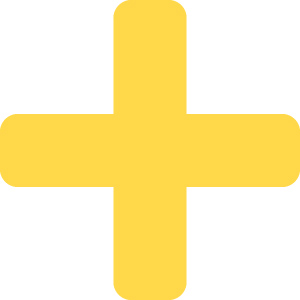
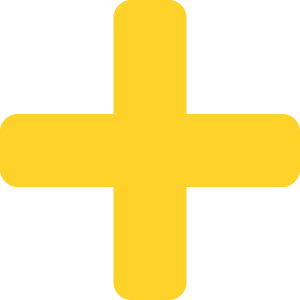
updated shapes

diff --git a/imports/startup/server/grouping-helper.js b/imports/startup/server/grouping-helper.js
@@ -13,7 +13,7 @@ function shuffle(a) {
   }
 
   return a;
-};
+}
 
 // TODO: get these from instructor
 const MAX_TEAM_SIZE = 3;
@@ -21,9 +21,8 @@ const MAX_NUM_TEAMS = 50;
 
 // set up the colors that the teams will use
 function buildColoredShapes(colored_shapes) {
-
-  const shapes = shuffle(['circle', 'cross', 'moon', 'square', 'star', 'sun', 'heart', 'car', 'triangle']);
-  const shapeColors = shuffle(['blue', 'green', 'orange', 'red']);
+  const shapes = shuffle(['circle', 'plus', 'moon', 'square', 'star', 'heart', 'triangle']);
+  const shapeColors = shuffle(['blue', 'purple', 'green', 'yellow', 'red']);
 
   for (let i = 0; i < shapes.length; i++) {
     for (let j = 0; j < shapeColors.length; j++) {
@@ -32,12 +31,10 @@ function buildColoredShapes(colored_shapes) {
   }
 
   shuffle(colored_shapes);
-
 }
 
 // builds teams for the first round of team formation
 export function buildInitialTeams(act_id, participants, questions) {
-
   // get the random colored shapes
   colored_shapes = [];
   buildColoredShapes(colored_shapes);
@@ -82,11 +79,11 @@ export function buildInitialTeams(act_id, participants, questions) {
           { pid: newTeam[k] },
           {
             $push: {
-              teamHistory: { 
-                team: team_id, 
-                teamNumber: teams.length, 
+              teamHistory: {
+                team: team_id,
+                teamNumber: teams.length,
                 teamPosition: k,
-                activity_id: act_id 
+                activity_id: act_id
               }
             }
           }
@@ -115,8 +112,8 @@ export function buildInitialTeams(act_id, participants, questions) {
     // update the team in database
     Teams.update(team_id, {
       $set: {
-        teamCreated: new Date().getTime(),
-      }, 
+        teamCreated: new Date().getTime()
+      },
       $push: {
         members: { pid: newTeam[0], confirmed: false }
       }
@@ -126,11 +123,11 @@ export function buildInitialTeams(act_id, participants, questions) {
       { pid: newTeam[0] },
       {
         $push: {
-          teamHistory: { 
-            team: team_id, 
-            teamNumber: teams.length-1, // previous team made had this number
+          teamHistory: {
+            team: team_id,
+            teamNumber: teams.length - 1, // previous team made had this number
             teamPosition: MAX_TEAM_SIZE,
-            activity_id: act_id 
+            activity_id: act_id
           }
         }
       }
@@ -141,14 +138,16 @@ export function buildInitialTeams(act_id, participants, questions) {
 
   // only 2 participants left, create 2 teams of MAX_TEAM_SIZE + 1
   else if (
-    newTeam.length === MAX_TEAM_SIZE - 1 && teams.length > 1 &&
-    oldTeam.length < MAX_TEAM_SIZE + 1 && olderTeam.length < MAX_TEAM_SIZE + 1
+    newTeam.length === MAX_TEAM_SIZE - 1 &&
+    teams.length > 1 &&
+    oldTeam.length < MAX_TEAM_SIZE + 1 &&
+    olderTeam.length < MAX_TEAM_SIZE + 1
   ) {
     // add the first user to an older team
     Teams.update(team_id, {
       $set: {
-        teamCreated: new Date().getTime(),
-      }, 
+        teamCreated: new Date().getTime()
+      },
       $push: {
         members: { pid: newTeam[0], confirmed: false }
       }
@@ -158,12 +157,13 @@ export function buildInitialTeams(act_id, participants, questions) {
       { pid: newTeam[0] },
       {
         $push: {
-          teamHistory: { 
-            team: team_id, 
-            teamNumber: teams.length-1, 
+          teamHistory: {
+            team: team_id,
+            teamNumber: teams.length - 1,
             teamPosition: MAX_TEAM_SIZE,
-            activity_id: act_id 
-          }        }
+            activity_id: act_id
+          }
+        }
       }
     );
     // keep track of this now team of 4
@@ -172,8 +172,8 @@ export function buildInitialTeams(act_id, participants, questions) {
     // add the second user
     Teams.update(older_team_id, {
       $set: {
-        teamCreated: new Date().getTime(),
-      }, 
+        teamCreated: new Date().getTime()
+      },
       $push: {
         members: { pid: newTeam[1], confirmed: false }
       }
@@ -183,12 +183,12 @@ export function buildInitialTeams(act_id, participants, questions) {
       { pid: newTeam[1] },
       {
         $push: {
-          teamHistory: { 
-            team: team_id, 
-            teamNumber: teams.length-2, // the oldest team saved is 2 teams ago
+          teamHistory: {
+            team: team_id,
+            teamNumber: teams.length - 2, // the oldest team saved is 2 teams ago
             teamPosition: MAX_TEAM_SIZE,
-            activity_id: act_id 
-          }        
+            activity_id: act_id
+          }
         }
       }
     );
@@ -220,12 +220,12 @@ export function buildInitialTeams(act_id, participants, questions) {
         { pid: newTeam[k] },
         {
           $push: {
-            teamHistory: { 
-              team: team_id, 
+            teamHistory: {
+              team: team_id,
               teamNumber: teams.length, // the oldest team saved is 2 teams ago
               teamPosition: k,
-              activity_id: act_id 
-            }           
+              activity_id: act_id
+            }
           }
         }
       );
@@ -240,7 +240,6 @@ export function buildInitialTeams(act_id, participants, questions) {
 
 // builds teams for subsequent rounds of team formation (where duplicates are avoided)
 export function buildNewTeams(act_id, participants, questions) {
-
   if (participants.length < 6) return buildInitialTeams(act_id, participants, questions);
 
   // get the random colored shapes
@@ -252,22 +251,22 @@ export function buildNewTeams(act_id, participants, questions) {
   const maxNumTeams = Math.floor(participants.length / 3.0);
 
   // arrays to hold the new teams and those users who are new additions
-  let ungrouped = [];
-  let newTeams = [];
-  let user_groups = [];
+  const ungrouped = [];
+  const newTeams = [];
+  const user_groups = [];
 
   for (let i = 0; i < participants.length; i++) {
-    let user_example = Users.findOne({pid: participants[i]});
-    let user_history = user_example.teamHistory;
+    const user_example = Users.findOne({ pid: participants[i] });
+    const user_history = user_example.teamHistory;
 
     if (!user_history.length) {
       // user has no teamHistory, they are a new user for this round
       ungrouped.push(participants[i]);
-    }
-    else {
-      let last_act_info = user_history.pop();
+    } else {
+      const last_act_info = user_history.pop();
+
       // user 'shifts' teams based on their position on their last team
-      switch(last_act_info.teamPosition) {
+      switch (last_act_info.teamPosition) {
         case 0:
           user_groups.push({
             pid: participants[i],
@@ -306,15 +305,18 @@ export function buildNewTeams(act_id, participants, questions) {
   });
 
   // build teams with the non-new people
-  var num_teams = Math.floor((participants.length - ungrouped.length) / 3.0);
+  const num_teams = Math.floor((participants.length - ungrouped.length) / 3.0);
+
   for (let currTeamNum = 0; currTeamNum < num_teams; currTeamNum++) {
-    let currTeam = user_groups.filter((user) => (user.teamNumber === currTeamNum));
+    const currTeam = user_groups.filter(user => user.teamNumber === currTeamNum);
+
     newTeams.push(currTeam);
   }
 
   // make some teams with the ungrouped users
   while (ungrouped.length >= MAX_TEAM_SIZE) {
-    let currTeam = [];
+    const currTeam = [];
+
     // build teams of MAX_TEAM_SIZE with a teamNumber that is the largest so far
     for (let j = 0; j < MAX_TEAM_SIZE; j++) {
       currTeam.push({
@@ -323,6 +325,7 @@ export function buildNewTeams(act_id, participants, questions) {
         teamPosition: j
       });
     }
+
     newTeams.push(currTeam);
   }
 
@@ -330,8 +333,9 @@ export function buildNewTeams(act_id, participants, questions) {
   if (ungrouped.length === MAX_TEAM_SIZE - 1) {
     // find out how many teams there are of size < MAX_TEAM_SIZE + 1
     let count = 0;
-    let less_indices = [];
-    let more_indices = [];
+    const less_indices = [];
+    const more_indices = [];
+
     for (let i = 0; i < newTeams.length; i++) {
       if (newTeams[i].length < MAX_TEAM_SIZE + 1) {
         count = count + 1;
@@ -339,6 +343,7 @@ export function buildNewTeams(act_id, participants, questions) {
       } else {
         more_indices.push(i);
       }
+
       if (count === 2) break;
     }
 
@@ -348,14 +353,14 @@ export function buildNewTeams(act_id, participants, questions) {
         pid: ungrouped.pop(),
         teamNumber: newTeams.length,
         teamPosition: MAX_TEAM_SIZE + 1
-      }); 
+      });
       newTeams[less_indices[1]].push({
         pid: ungrouped.pop(),
         teamNumber: newTeams.length,
         teamPosition: MAX_TEAM_SIZE
-      }); 
+      });
     }
-    //2 left: Only one team of size < MAX_TEAM_SIZE + 1 -> adjust a team of 4 to a NEW team of 3 
+    //2 left: Only one team of size < MAX_TEAM_SIZE + 1 -> adjust a team of 4 to a NEW team of 3
     else if (count === 1) {
       oneUser = newTeams[more_indices[0]].pop(); // adjust a team of 4
       currTeam.push({
@@ -402,14 +407,13 @@ export function buildNewTeams(act_id, participants, questions) {
       });
       //add this new team to all of our teams
       newTeams.push(currTeam);
-
     }
-  }
-  else if (ungrouped.length === 1) {
+  } else if (ungrouped.length === 1) {
     // find out how many teams there are of size < MAX_TEAM_SIZE + 1
     let count = 0;
-    let less_indices = [];
-    let more_indices = [];
+    const less_indices = [];
+    const more_indices = [];
+
     for (let i = 0; i < newTeams.length; i++) {
       if (newTeams[i].length < MAX_TEAM_SIZE + 1) {
         count = count + 1;
@@ -419,21 +423,22 @@ export function buildNewTeams(act_id, participants, questions) {
         more_indices.push(i);
       }
     }
+
     //1 left: If at least one team of size < MAX_TEAM_SIZE + 1 -> make a team of 4
     if (count === 1) {
       newTeams[less_indices[0]].push({
         pid: ungrouped.pop(),
         teamNumber: newTeams.length,
         teamPosition: MAX_TEAM_SIZE + 1
-      }); 
-    } 
+      });
+    }
     //1 left: No teams of size < MAX_TEAM_SIZE + 1 -> adjust a team of 4 to make a team of 3 and a team of 2. TODO: ??
   }
 
-  newTeams.map((currTeam) => {
+  newTeams.map(currTeam => {
     //add to Teams
     //update Users
-    let team_id = Teams.insert({
+    const team_id = Teams.insert({
       activity_id: act_id,
       teamCreated: new Date().getTime(),
       members: currTeam.map(user => ({ pid: user.pid, confirmed: false })),
@@ -451,21 +456,23 @@ export function buildNewTeams(act_id, participants, questions) {
         { pid: currTeam[k].pid },
         {
           $push: {
-            teamHistory: { 
-              team: team_id, 
-              teamNumber: currTeam[k].teamNumber, 
+            teamHistory: {
+              team: team_id,
+              teamNumber: currTeam[k].teamNumber,
               teamPosition: currTeam[k].teamPosition,
-              activity_id: act_id 
-            }           
+              activity_id: act_id
+            }
           }
         }
       );
     }
+
     // add the team to the list of teams
     teams.push(team_id);
   });
 
   // return properly produced teams
   console.log(teams);
+
   return teams;
 }

diff --git a/imports/ui/SessionProgress/Components/TeamShapes.jsx b/imports/ui/SessionProgress/Components/TeamShapes.jsx
@@ -8,7 +8,7 @@ import './TeamShapes.scss';
 
 class TeamShapes extends Component {
   static propTypes = {
-    activity_id: PropTypes.string.isRequired,
+    activity_id: PropTypes.string.isRequired
   };
 
   mapShapes(teams) {
@@ -19,7 +19,7 @@ class TeamShapes extends Component {
             return (
               <div key={team._id} className="shape-box">
                 <img
-                  src={'/shapes/' + team.shape + '-solid-' + team.color + '.png'}
+                  src={'/shapes/' + team.shape + '-solid-' + team.color + '.jpg'}
                   alt={team.color + ' ' + team.shape}
                 />
               </div>
@@ -28,7 +28,7 @@ class TeamShapes extends Component {
             return (
               <div key={team._id} className="shape-box">
                 <img
-                  src={'/shapes/' + team.shape + '-outline-' + team.color + '.png'}
+                  src={'/shapes/' + team.shape + '-outline-' + team.color + '.jpg'}
                   alt={team.color + ' ' + team.shape}
                 />
               </div>

diff --git a/imports/ui/Activities/Components/TeamFormation/TeamFormation.jsx b/imports/ui/Activities/Components/TeamFormation/TeamFormation.jsx
@@ -125,7 +125,7 @@ class TeamFormation extends Component {
       <div className="team-formation-main">
         <div className="shape-main">
           <div>Find others with this shape and color</div>
-          <img className="shape-img" src={`/shapes/${shape}-solid-${color}.png`} alt={`${color} ${shape}`} />
+          <img className="shape-img" src={`/shapes/${shape}-solid-${color}.jpg`} alt={`${color} ${shape}`} />
           {!confirmed && <div>Select members found:</div>}
         </div>
         {this.renderTeammates()}

diff --git a/imports/ui/Layouts/Mobile/Mobile.jsx b/imports/ui/Layouts/Mobile/Mobile.jsx
@@ -130,7 +130,7 @@ export default class Mobile extends Component {
           <>
             <nav className="navbar">
               <div onClick={() => this.openTeam()} className="nav-team-shape">
-                <img src="/shapes/plus-color-yellow-small.png" alt="" />
+                <img src="/shapes/moon-solid-purple-small.png" alt="" />
                 {teamOpen ? <span>&#9650;</span> : <span>&#9660;</span>}
               </div>
               <div className="progress-status">

diff --git a/imports/ui/Layouts/Mobile/Mobile.scss b/imports/ui/Layouts/Mobile/Mobile.scss
@@ -79,6 +79,7 @@
     z-index: 1;
 
     .teammate-slot {
+      font-size: 1em;
       background: $dynamic-light-gray;
       color: $dynamic-black;
       text-align: left;
